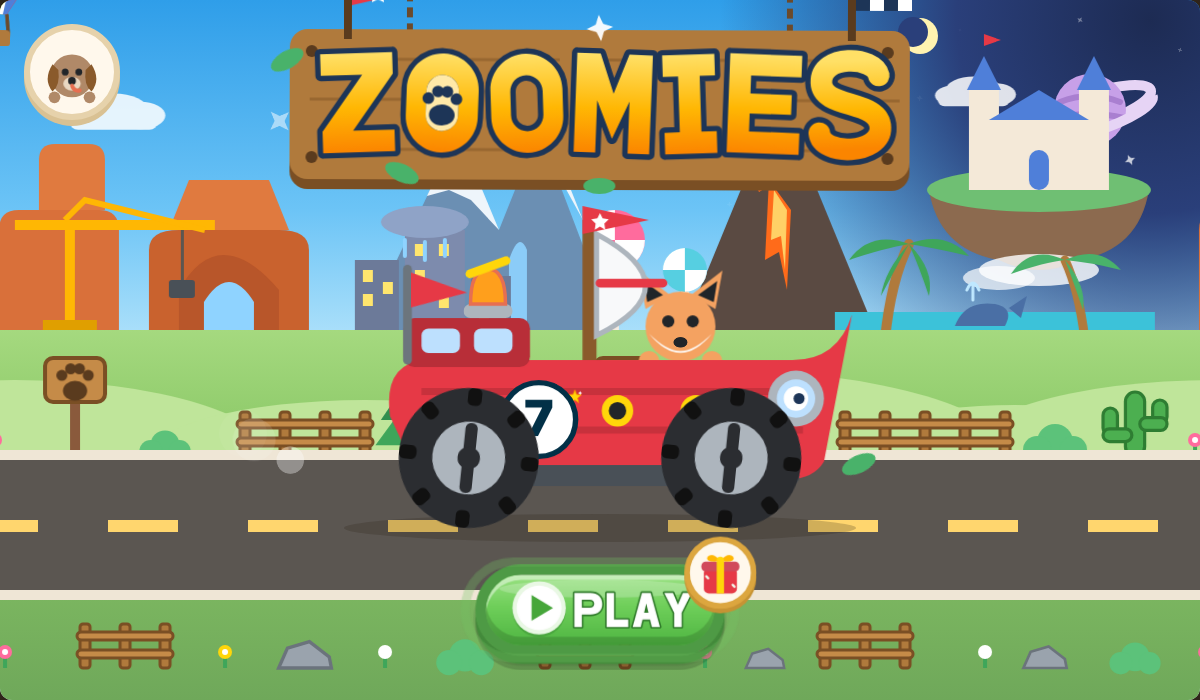
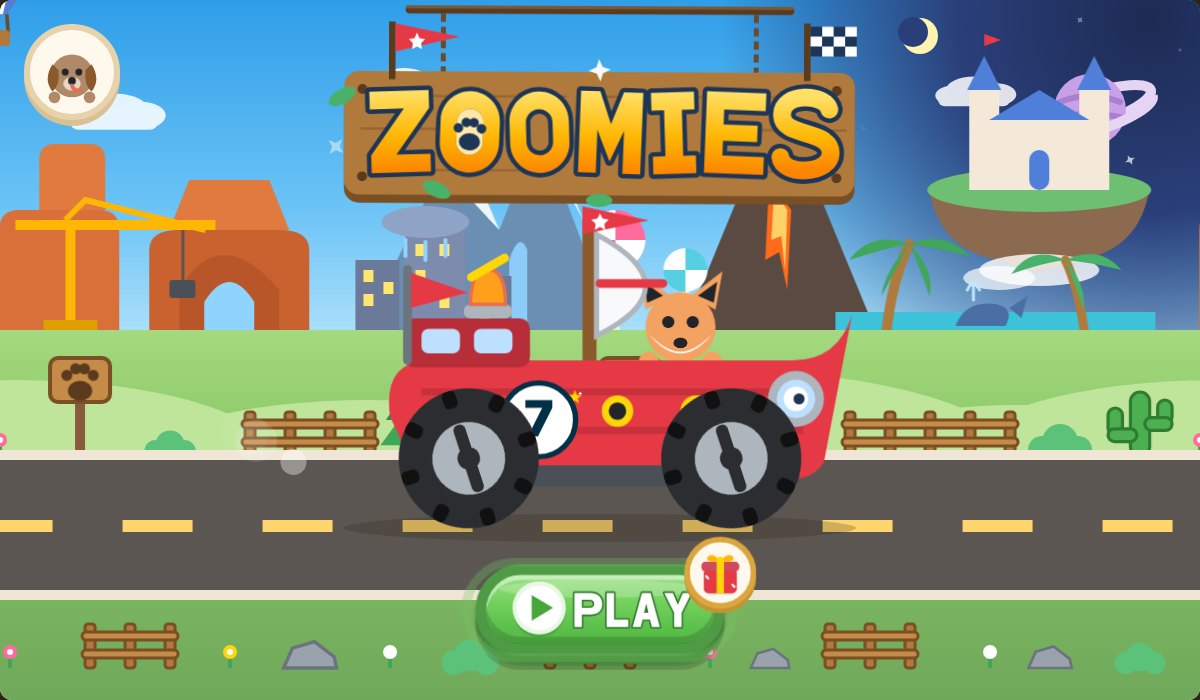
13.24.0: the whole ZOOMIES sign is on the stage
The chains and flags were drawn above the sign SVG's top edge, so they
could never show. The sign is 560 wide (was 680), its canvas runs 50
units higher, and a wooden rail at the top is what the chains hang
from; rail, chains, both flags and the plank now sit inside the sky
band above the skyline. docs/title.png regenerated. Battery 475/475,
lint clean.

Claude-Session: https://claude.ai/code/session_016ck1aPGLVyXfjAcF2qTzon

diff --git a/index.html b/index.html
@@ -1562,7 +1562,7 @@ html, body { background: #2f241a; }               /* warm dark letterbox, was na
 #title.active #tDash { animation: tDash .32s linear infinite; }
 @keyframes tDash { to { transform: translateX(-140px); } }
 /* the sign: drops in on its chains, swings to rest, then sways; the glint sweeps the wordmark, stars twinkle */
-#titleLogo { position: absolute; left: 260px; top: 0; width: 680px; height: 200px; pointer-events: none; z-index: 3; transform-origin: 50% 0; }
+#titleLogo { position: absolute; left: 320px; top: 6px; width: 560px; height: 206px; pointer-events: none; z-index: 3; transform-origin: 50% 0; }   /* 13.24: the whole sign on the stage, rail, chains and flags included (was 680 wide with the chains off the top) */
 #titleLogo svg { width: 100%; height: 100%; overflow: visible; }
 #titleLogo .glint { opacity: 0; }
 #titleLogo .spark { transform-box: fill-box; transform-origin: center; opacity: 0; }
@@ -2089,7 +2089,7 @@ html, body { background: #2f241a; }               /* warm dark letterbox, was na
 /* ===== 0. VERSION ===== */
 /* Bumped with each release alongside package.json; shown as a tiny numeral row in the
    grown-ups (profile) panel. The update gate fingerprints the code itself, not this. */
-const APP_VERSION = "13.23.0";
+const APP_VERSION = "13.24.0";
 /* the game's name as the OS sees it (share sheets). The <title>, the apple-mobile-web-app-title meta and
    manifest.webmanifest carry the same word; storage keys and save-code prefixes keep "vroom" forever. */
 const GAME_NAME = "Zoomies";
@@ -11677,9 +11677,10 @@ function titleIdleStop() {
     [452, 2, `<path d="M0 0 H80 V24 H24 V44 H70 V66 H24 V86 H80 V110 H0 Z" ${L}/>`],
     [546, -2, `<path d="M74 24 C70 2 10 -2 10 30 C10 60 74 50 74 82 C74 112 8 112 6 86" fill="none" stroke="#1d3557" stroke-width="36" stroke-linecap="round" stroke-linejoin="round"/><path d="M74 24 C70 2 10 -2 10 30 C10 60 74 50 74 82 C74 112 8 112 6 86" fill="none" stroke="url(#tGold)" stroke-width="24" stroke-linecap="round" stroke-linejoin="round"/>`],
   ].map(([x, r, d]) => `<g transform="translate(${x},0) rotate(${r} 40 55)">${d}</g>`).join("");
-  document.getElementById("titleLogo").innerHTML = `<svg viewBox="0 0 680 200">
+  document.getElementById("titleLogo").innerHTML = `<svg viewBox="0 -50 680 250">
     <defs><linearGradient id="tGold" x1="0" y1="0" x2="0" y2="1"><stop offset="0" stop-color="#ffe066"/><stop offset=".55" stop-color="#ffb703"/><stop offset="1" stop-color="#fb8500"/></linearGradient>
     <clipPath id="tPlankClip"><rect x="30" y="30" width="620" height="150" rx="18"/></clipPath></defs>
+    <rect x="104" y="-50" width="472" height="10" rx="5" fill="#5a3b1e"/><rect x="104" y="-50" width="472" height="4" rx="2" fill="#7a5a36"/>
     <path d="M150 -40 V34 M530 -40 V34" stroke="#6b4a2b" stroke-width="6" stroke-dasharray="10 6"/>
     <rect x="30" y="40" width="620" height="150" rx="18" fill="#7a4f24"/>
     <rect x="30" y="30" width="620" height="150" rx="18" fill="#b07a3c"/>

diff --git a/TASKS.md b/TASKS.md
@@ -293,6 +293,10 @@
 
 - [x] T40.1: Launches cut hard: the standard kick 0.9 -> 0.6 (`KICK_STD`, also the flight-star arc), mega 1.1 -> 0.75, hop 0.55 -> 0.4, the springs ladder +18% -> +8% a pip (1.24 at the top, was 1.54), the chomper's spit 470 -> 420. Flight tables, tails and landing zones unchanged (they were generous), so every landing stays clear. [SPID]
 
+## v13.24.0 (2026-10-10, user-directed: "the sign needs to be shrunk a bit so we can see the whole thing")
+
+- [x] T44.1: The whole ZOOMIES sign is on the stage. The chains and flags were drawn above the SVG's top edge, so they could never show. The sign is 560 wide (was 680), its canvas runs 50 units higher, and a wooden rail at the top is what the chains hang from; rail, chains, both flags and the plank now sit inside the sky band above the skyline. docs/title.png regenerated. [SPID]
+
 ## v13.23.0 (2026-10-10, user-directed: "I have absolutely no clue what's going on here, make it the best damn album for a AAA Nintendo style game")
 
 - [x] T43.1: The album is a scrapbook. Three framed, taped pages that pop in one after the other, each with a pictogram tab (paw, rosette, camera) and a found/total count that turns green when complete. The photo wall replaces the "last six finishes" strip (six replays of level 2 made six identical polaroids): 13 frames in a fixed order, one per world and a gold one for the parade. `keepPhoto` offers each finish to its world's frame, which only ever gets better (medal, then stars; the newest of equals). Empty frames show the world's icon as a ghost and deny a tap. Photo backdrops gain a sun or moon, a hill band and the road's dashes. Anything new since the last visit wears a pulsing gold star for that visit (`progress.albumSeen`, localStorage only). Older saves collapse to one photo per world on load. The stale 96 px buddy override and two duplicate CSS blocks are gone; every slot is 80 px or more. album-check 15 -> 20. [SPID]
